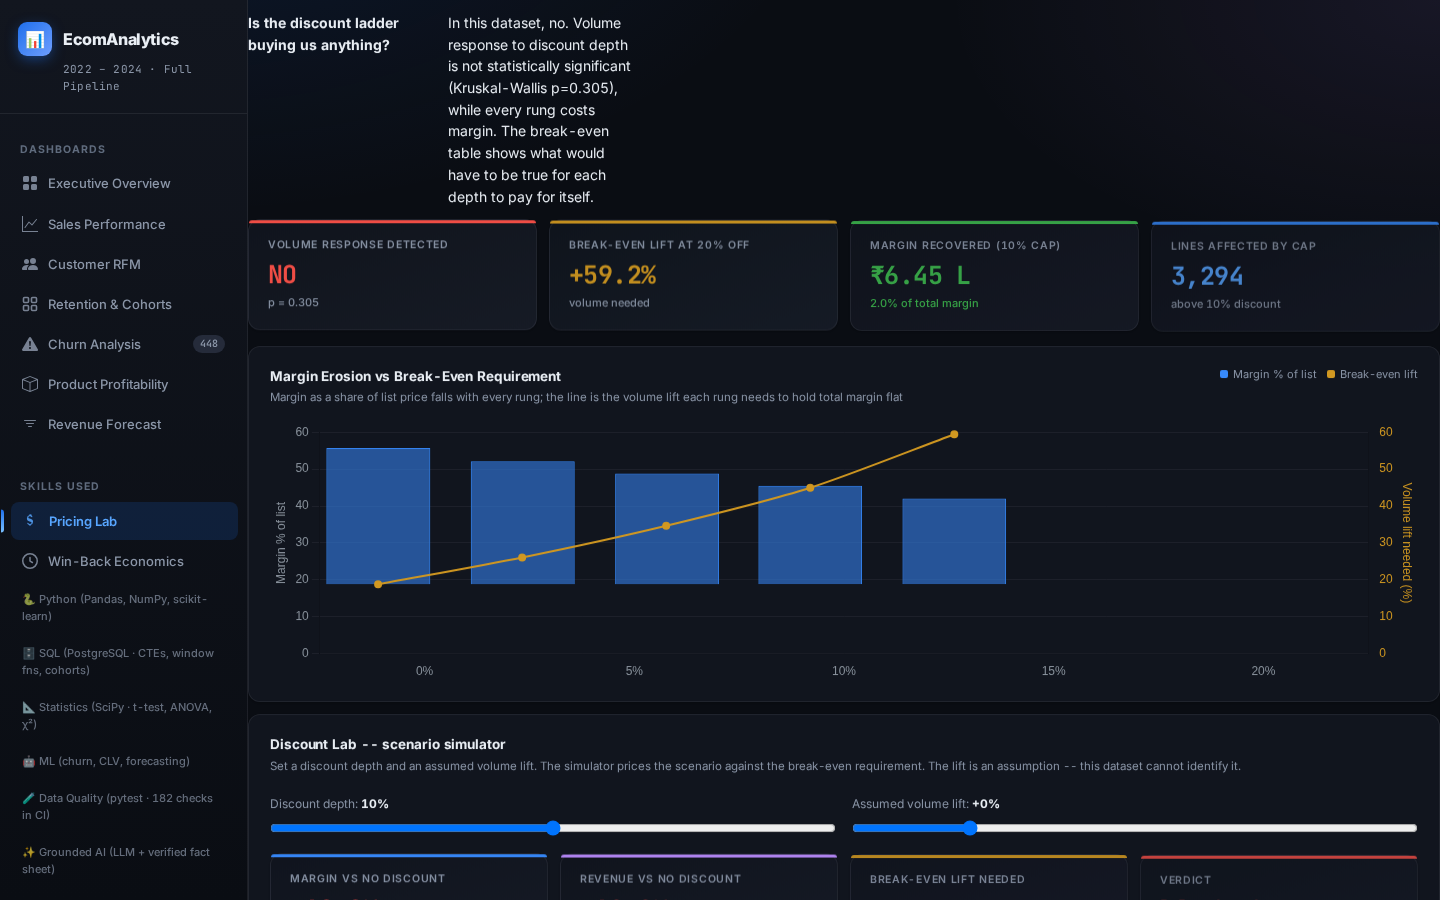
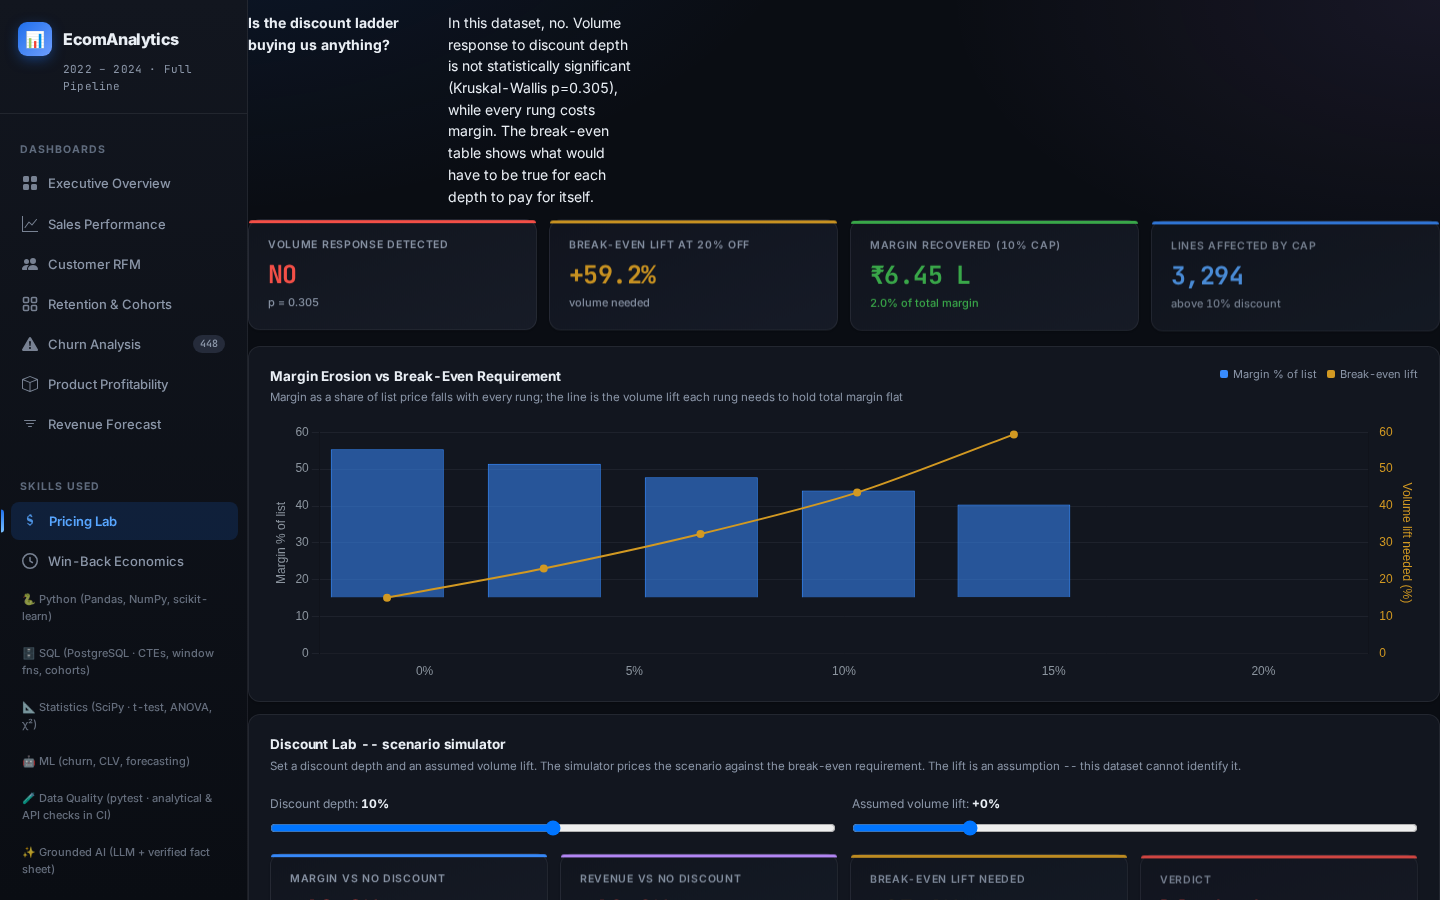
Complete publication checks: SQL execution, isolated tests, bounded queries and accessibility

Changed region(s): [[0.2188, 0.4978, 0.75, 0.6844], [0.0938, 0.8711, 0.1562, 0.9022], [0.0312, 0.9022, 0.0625, 0.9333]]

diff --git a/docs/FEATURE_VERIFICATION_MATRIX.md b/docs/FEATURE_VERIFICATION_MATRIX.md
@@ -12,7 +12,7 @@
 | SQL/AI guardrails | 37-case fallback benchmark and AST mutation/table/limit checks | PASS within authored scope |
 
 ## Accessibility
-axe scans use WCAG2A/AA and WCAG2.1AA tags. Measured patch verification has zero detected violations at 1440×900 and 390×844, with 1 incomplete rule groups still requiring manual review. A live post-push scan is recorded in the delivery report.
+axe scans use WCAG2A/AA and WCAG2.1AA tags. Measured patch verification has zero detected violations at 1440×900 and 390×844, with 1 incomplete rule groups still requiring manual review. Live post-push scans also reported zero detected violations in the tested desktop/mobile states; incomplete rules remain manual-review items.
 Keyboard focus smoke checks are not a screen-reader walkthrough. Not all chart semantics, every hidden state or assistive-technology behavior is certified.
 
 ## Performance
